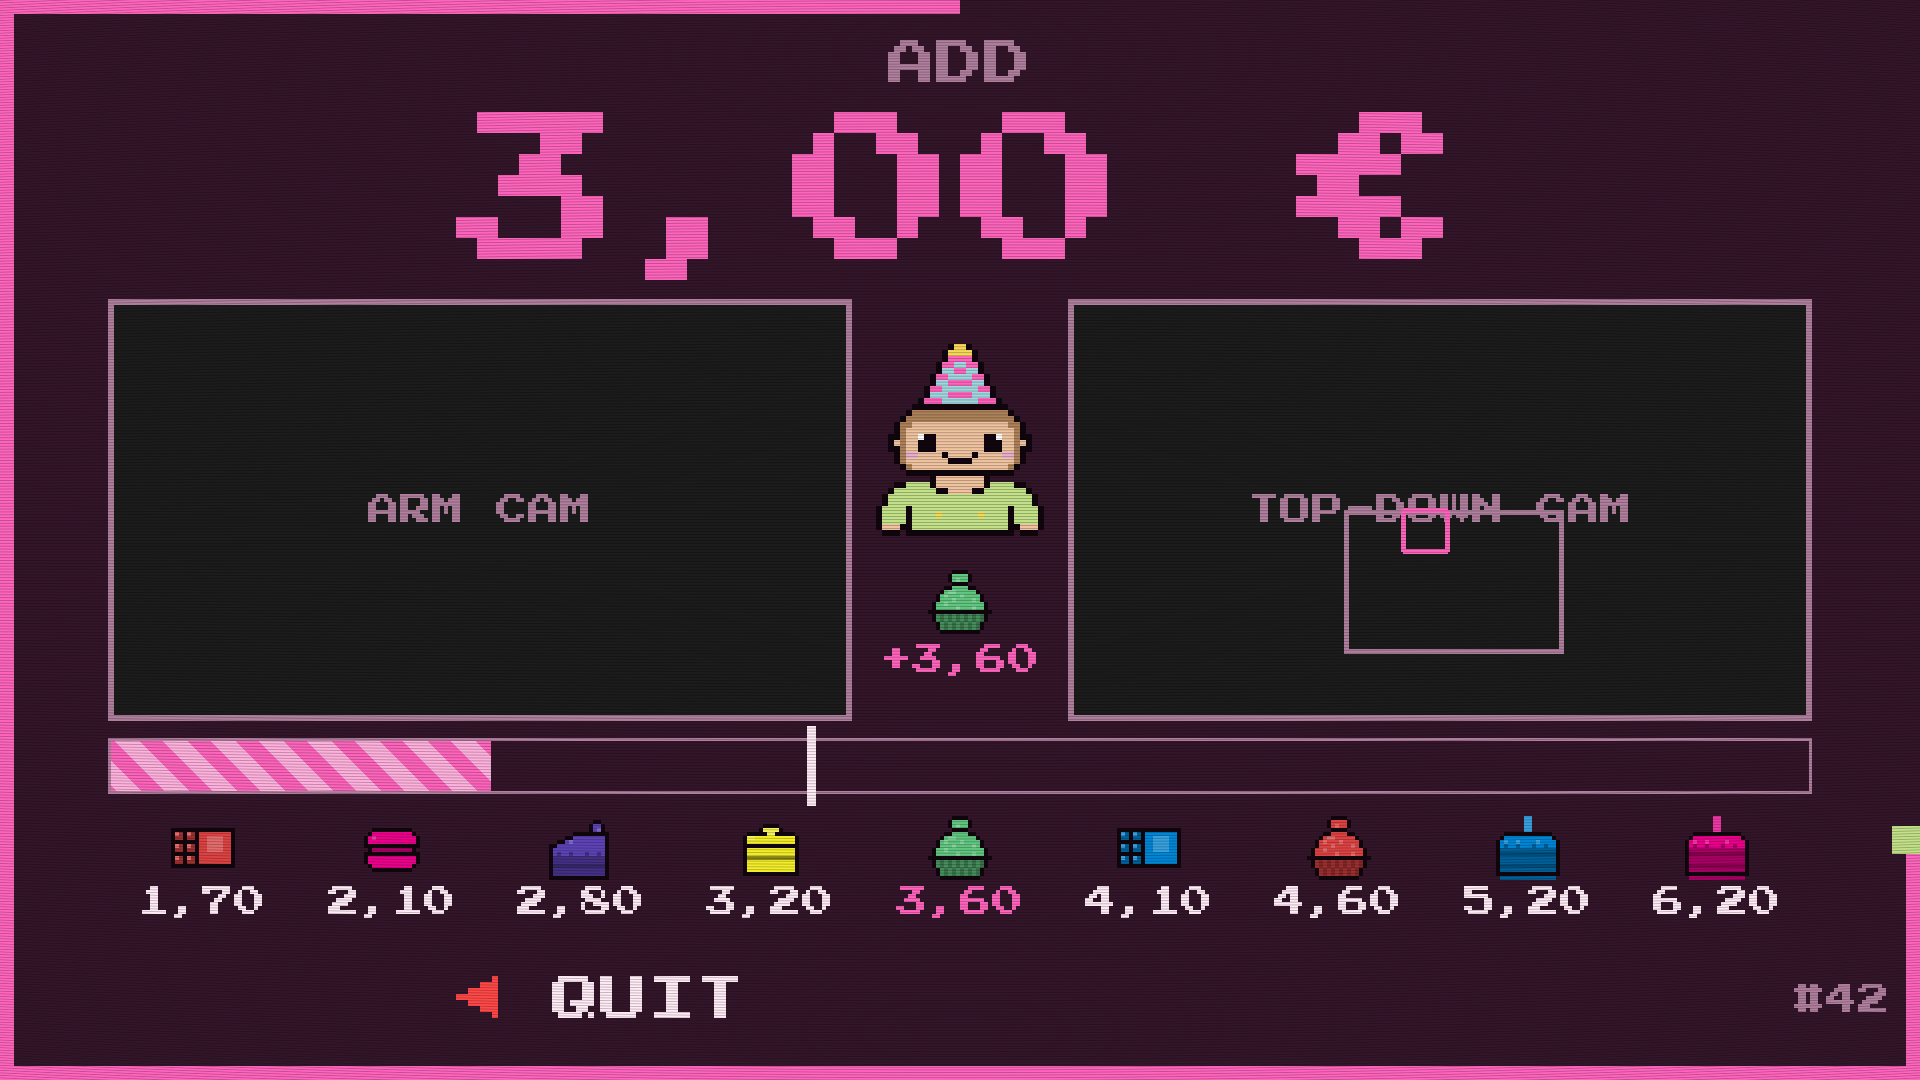
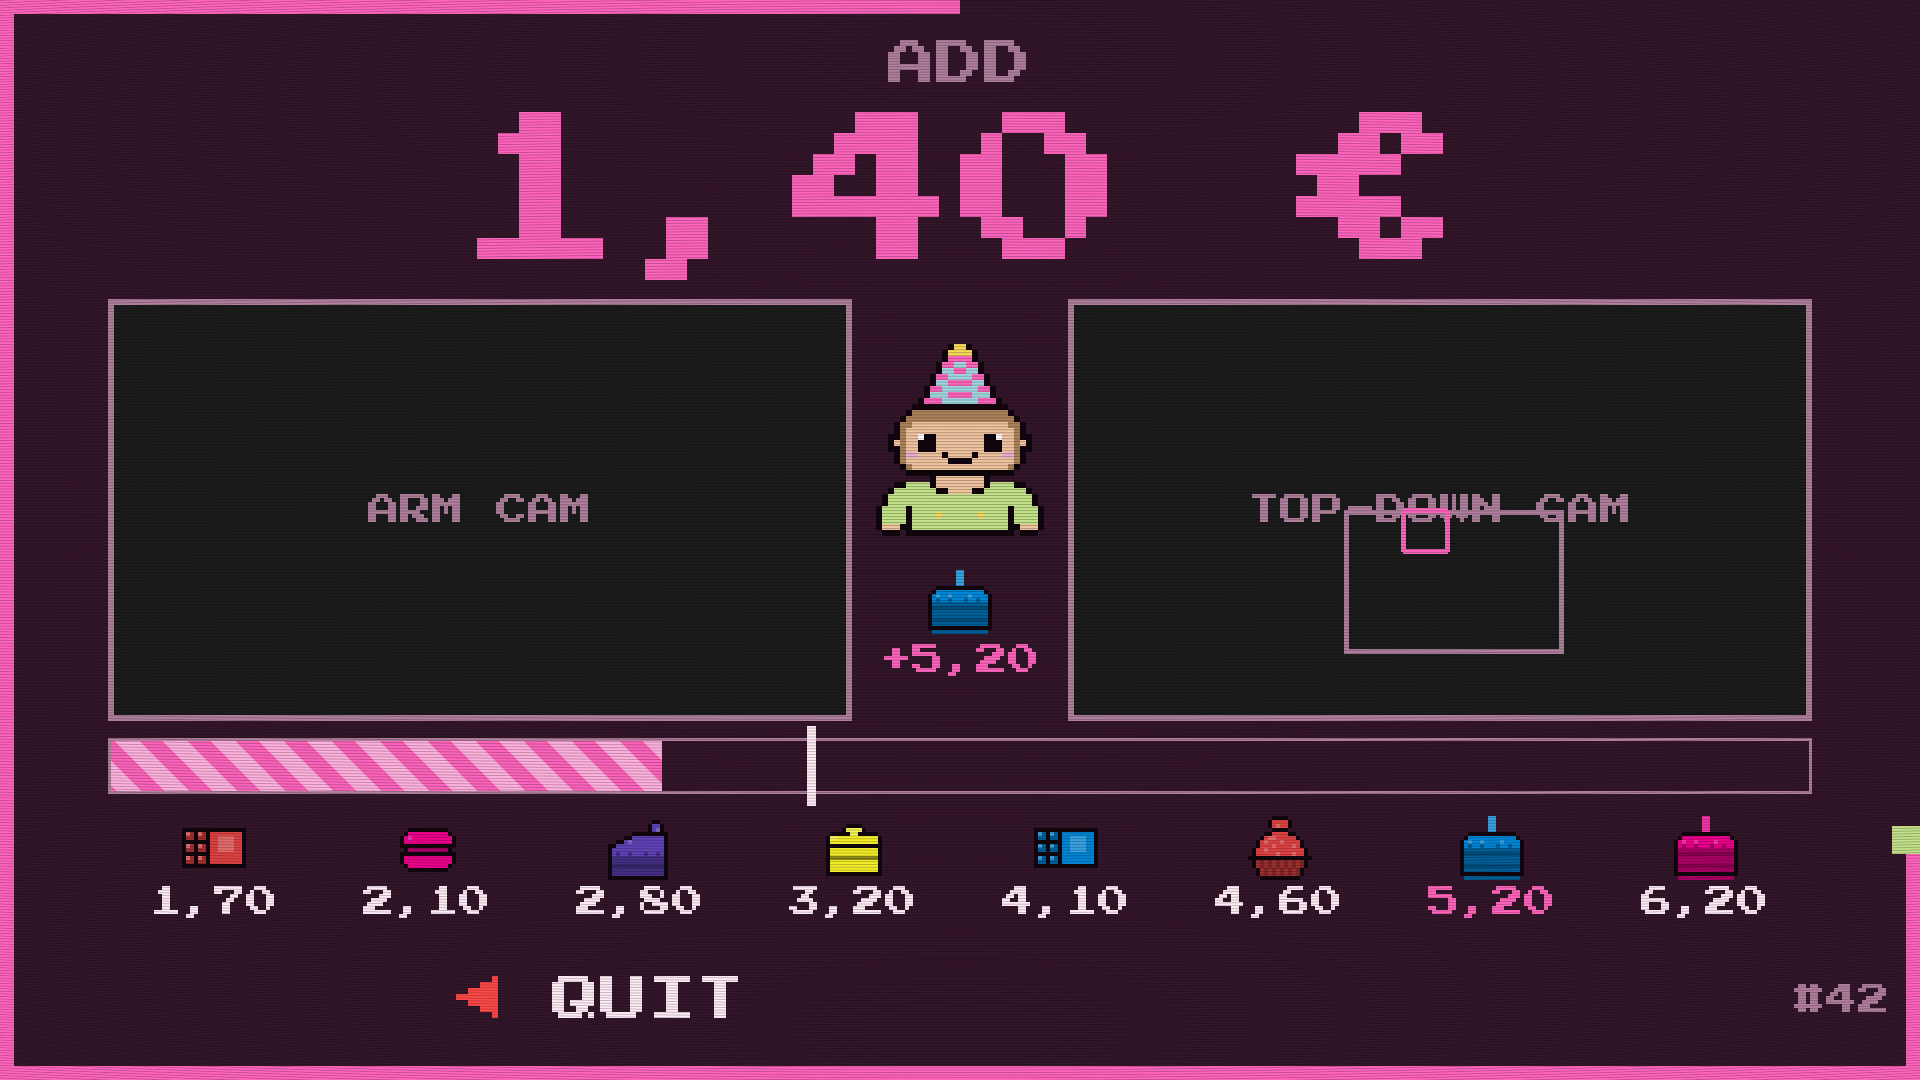
fix: cup_blaubeer (#11) off, green reads as dark as its code under the hall light; tests use #9

diff --git a/tools/shots.py b/tools/shots.py
@@ -121,7 +121,7 @@ def shots(out):
     # (1.40 + 5.20) would have been it, macaron + cupcake (1.70 + 4.60) is
     # what the player picked.
     done = scenes.Result(target=66, total=63, dist=66, left=0.0,
-                         marks={0: 1, 11: 1})
+                         marks={0: 1, 9: 1})
     score = scenes.DisplayScoreScene(ctx, done, 42)
     typed(score.dialog)
     # The last page: Oskar has said thanks, Bella hands over the number.
@@ -143,8 +143,8 @@ def shots(out):
         ("5-tutorial-done", done_tut,                                 {}),
         ("6-order",        order,                                     {}),
         ("7-game-add",     game, dict(play, left=ROUND_SECONDS * 0.7, clock=0.3,
-                                      marks={11: quad(.45)}, total=V[11], target=66,
-                                      pop=[SPRITE[11], "+" + scenes.euro(V[11], sign=False), 0.4])),
+                                      marks={9: quad(.45)}, total=V[9], target=66,
+                                      pop=[SPRITE[9], "+" + scenes.euro(V[9], sign=False), 0.4])),
         ("8-game-hint",    game, dict(pop=None, still=99.0, left=FUSE_PULSE * 0.6,
                                       clock=0.3)),
         ("9-game-over",    game, dict(still=0.0, left=ROUND_SECONDS * 0.4,

diff --git a/game/config.py b/game/config.py
@@ -188,10 +188,11 @@ DUCK_RELEASE = 0.35   # seconds back to full
 #
 # The pink petit four from the first CMYK test also carries #2. It stays off
 # the tray: two #2 on it count once.
-# Bonbon (#4) and cup_mini (#10) are off since the fair (29.9.): no
-# detector setting reads them under the hall light.
+# Bonbon (#4), cup_mini (#10) and cup_blaubeer (#11, black on green) are
+# off since the fair (29.9.): no detector setting reads them under the hall
+# light -- green goes as dark as the code.
 VALUES = {1: 17, 0: 21, 6: 28, 2: 32,
-          11: 36, 7: 41, 5: 46, 9: 52, 8: 62}
+          7: 41, 5: 46, 9: 52, 8: 62}
 CENTS  = 10        # one VALUES step in cents. Only read by euro().
 
 # ── Game mode ─────────────────────────────────────────────────────────────

diff --git a/game/hw.py b/game/hw.py
@@ -608,8 +608,8 @@ if __name__ == "__main__":
     # 1b · Inverted marker (light cells on dark) is detected the same way.
     # Plate 2 printed no such treat -- the chocolate ones carry them -- but
     # detectInvertedMarker stays on, so this path stays tested.
-    det_inv = ArucoDetector(_Still(255 - _tray({11: (260, 160)})), roi=(0, 0, 1, 1))
-    assert sorted(_settle(det_inv)) == [11], det_inv.fresh()
+    det_inv = ArucoDetector(_Still(255 - _tray({9: (260, 160)})), roi=(0, 0, 1, 1))
+    assert sorted(_settle(det_inv)) == [9], det_inv.fresh()
 
     # 2 · Window filters out what lies outside
     det_roi = ArucoDetector(_Still(_tray(spots)), roi=(0.0, 0.0, 0.6, 0.5))
